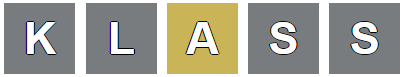
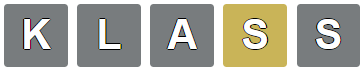
Add files via upload

diff --git a/index.html b/index.html
@@ -37,27 +37,41 @@
       <div class="modal-content">
         <div class="modal-header">
           <p class="modal-title"><br>
-          Arva ära sõna kuue katsega.<br>
-          <br>
-          Iga oletus peab olema kehtiv viietäheline sõna. Esitamiseks vajutage ENTER nuppu.<br>
-          <br>
-          Pärast iga arvamist muutub plaatide värv, mis näitab, kui lähedal teie oletus sellele sõnale oli.</p><button type="button" class="close" data-dismiss="modal">×</button>
+          <b>Kuidas mängida?</b></p><button type="button" class="close" data-dismiss="modal">×</button>
         </div>
         <div class="modal-body">
-          <b>NÄITED</b><br>
-          <br>
-          <img src="1.png" alt="1" width="400" height="75">
+          <b>REEGLID</b><br><br>
+          <p>Arva arvuti poolt valitud sõna ära kuue katsega.</p><br>
+          <p>Iga oletus peab olema kehtiv viietäheline sõna. Esitamiseks vajutage ENTER nuppu.</p><br>
+          <p>Pärast iga arvamist muutub ruutude värv, mis näitab, kui lähedal teie oletus sellele sõnale on.</p><br>
+          <b>NÄITED</b><br><br>
+          <img src="1.png" alt="1">
           <p>A-täht on sõnas ja õiges kohas.</p>
-          <img src="2.png" alt="2" width="400" height="75">
-          <p>A-täht on sõnas, kuid vales kohas.</p>
-          <img src="3.png" alt="3" width="400" height="75">
+          <img src="2.png" alt="2">
+          <p>S-täht on sõnas, kuid vales kohas.</p>
+          <img src="3.png" alt="3">
           <p>Ükski nendest tähtedest pole sõnas üheski kohas.</p>
         </div>
       </div>
     </div>
   </div>
+
+  <div id="info" class="modal fade">
+    <div class="modal-dialog">
+      <div class="modal-content">
+        <div class="modal-header">
+          <p class="modal-title"><br>
+            <b>Info</b><br></p><button type="button" class="close" data-dismiss="modal">×</button>
+        </div>
+        <div class="modal-body">
+          <p>Inspiratsioon:&nbsp;<a href="https://www.nytimes.com/games/wordle/index.html" target="_blank">NYT&nbsp;-&nbsp;Wordle</a></p><br>
+          <p>Sõnastikud:&nbsp;<a href="https://www.eki.ee/tarkvara/wordlist/lemmad2013.txt" target="_blank">lemmad2013.txt</a>,&nbsp;<a href="https://sonaveeb.ee/teacher-tools/#/vocabulary?page=1" target="_blank">Sonaveeb.ee</a></p>
+        </div>
+      </div>
+    </div>
+  </div>
   <hr>
-  <h1 id="title" class="center-block">Sõnastaja</h1> <button class="ava" type="button" data-toggle="modal" data-target="#subscribe">?</button>
+  <button class="ava2" type="button" data-toggle="modal" data-target="#info">i</button> <h1 id="title" class="center-block">Sõnastaja</h1> <button class="ava" type="button" data-toggle="modal" data-target="#subscribe">?</button>
   <hr>
   <br>
   <div id="board" class="center-block"></div>

diff --git a/sonastaja.css b/sonastaja.css
@@ -122,7 +122,7 @@ h1 {
     color: white;
     text-shadow: -1px 0 black, 0 1px black, 1px 0 black, 0 -1px black;
     margin-right: 50px;
-    margin-left: 75px;
+    margin-left: 50px;
     display: inline-block;
 }
 
@@ -140,6 +140,23 @@ img {
 }
 
 .ava {
+    width: 25px;
+    height: 25px;
+    font-family:'Arial Black', sans-serif;
+    font-size:20px;
+    font-weight:bold;
+    line-height:20px;
+    align-items: center;
+    color: white;
+    text-shadow: -1px 0 black, 0 1px black, 1px 0 black, 0 -1px black;
+    border: 1px solid white;
+    border-radius:5px;
+    padding:px;
+    background-color: transparent;
+    outline: 0 !important;
+ }
+
+ .ava2 {
     width: 25px;
     height: 25px;
     font-family:'Arial Black', sans-serif;
